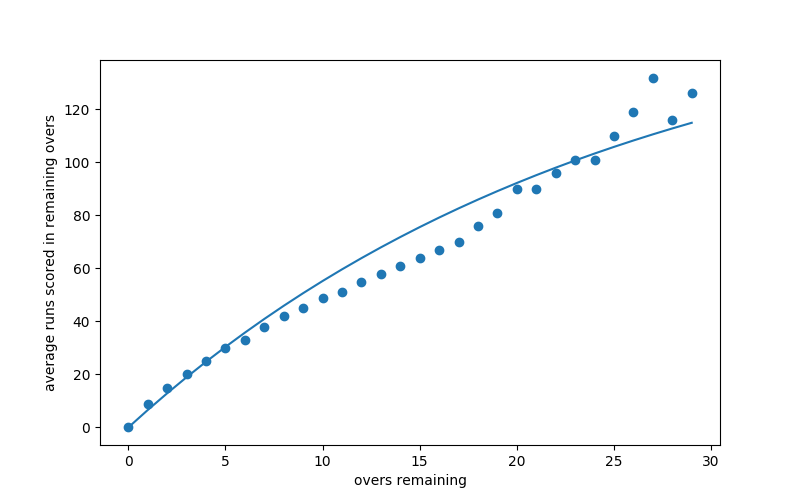
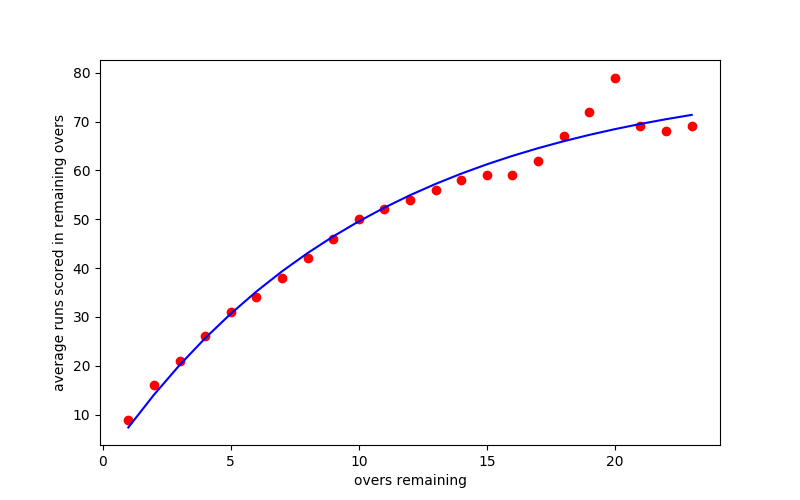
major changes: added corruption removal, best results yet

diff --git a/main.py b/main.py
@@ -7,15 +7,25 @@ from numpy import linspace as linspace
 from scipy.optimize import minimize
 from math import ceil
 
-# Read data and remove some of the corrupt entries
-h = pd.read_csv('./../data/04_cricket_1999to2011.csv')
-history = {}
-for key in h:
-	l = list(h[key])
-	del l[99253:99286]
-	del h[key]
-	history[key] = l
+# Read data 
+history = pd.read_csv('./../data/04_cricket_1999to2011.csv')
 
+# Ignore corrupt entries
+def find_corrupt_matches():
+	corrupt = []
+	for i, match in enumerate(history['Match']):
+		if i == 0:
+			continue
+		if history['Over'][i] == 1 and history['Innings'][i] == 2 and history['Wickets.in.Hand'][i-1] != 0\
+		and history['Over'][i-1] != 50: # Unfinished 1st innings
+			corrupt.append(match)
+		if history['Over'][i] == 1 and history['Runs.Remaining'][i-1] != 0:
+		# Unfinished 1st or 2nd innings
+			corrupt.append(match)
+	return corrupt
+
+corrupt = find_corrupt_matches()
+ 
 # Find number of overs played in an innings
 def set_overs_played():
 	op_, start, overs = [], 0, history['Over']
@@ -35,29 +45,36 @@ def set_overs_played():
 
 op = set_overs_played()
 
-# Create obsevation table for Z(u,w)
+# Create observation table for Z(u,w)
 def create_table():
 	table = []
 	d = {}
 	for over_rem in range(50):
 		for wckt_rem in range(11):
 			d[(over_rem, wckt_rem)] = []
-	for i, over in enumerate(history['Over']):
-		w = history['Wickets.in.Hand'][i]
-		u = op[i]-over
-		t = history['Runs.Remaining'][i]
-		if u == 0 or t == -1:
-			t = 0
-		d[(u, w)].append(t)
+	for i, match in enumerate(history['Match']):
+		if match not in corrupt:
+			w = history['Wickets.in.Hand'][i]
+			t = history['Runs.Remaining'][i]
+			over = history['Over'][i]
+			if history['Innings'][i] == 1:
+				u = 50 - over
+			else:
+				u = op[i] - over
+			if u == 0 or w == 0:
+				t = -1
+			d[(u, w)].append(t)
 	for over_rem in range(50):
 		row = []
 		for wckt_rem in range(11):
-			if d[(over_rem, wckt_rem)] != []:
-				row.append(ceil(avg(d[(over_rem, wckt_rem)])))
+			if len(d[(over_rem, wckt_rem)]) >= 30: # If at least 25 data points aren't found we ignore the
+				row.append(ceil(avg(d[(over_rem, wckt_rem)]))) # situation while optimizing
 			else:
 				row.append(-1)
 		table.append(row)
+		#print table[over_rem]
 	return table
+
 
 table = create_table()
 
@@ -83,16 +100,17 @@ def loss(Z):
 x0 = []
 bnds = []
 for i in range(10):
-	x0.append(i*25)
+	x0.append((i+1)*50)
 	bnds.append((1, None))
 x0.append(5)
 bnds.append((0,None))
 params = minimize(loss, x0, bounds=bnds).x
 print('############ Parameters ############\n')
 for i in range(10):
-	print('Z({}) = {} {}'.format(i+1, params[i], prod(50, params[i], params[10])))
+	print('Z({}) = {}'.format(i+1, params[i]))
 print('L = {}'.format(params[10]))
 
+# Plot fraction of resources remaining
 fig, ax = plt.subplots(figsize=(8,5))
 X = linspace(0, 50, 100)
 for i in range(10):
@@ -103,7 +121,7 @@ for i in range(10):
 plt.legend()
 plt.savefig('resource' + '.png')
 
-# Calculate error in Z(w) 
+# Calculate error in Z(u,w) when w is fixed and plot it
 def error(w,):
 	s, d = 0, 0
 	for over in range(1, 50):
@@ -111,16 +129,16 @@ def error(w,):
 		if t != -1:
 			s = s + (prod(over, params[w-1], params[10])-t)**2
 			d = d + t**2
-	fig, ax = plt.subplots(figsize=(8,5))
+	fig, ax = plt.subplots(figsize = (8,5))
 	X, Y = [], []
 	for i in range(50):
 		t = table[i][w]
 		if t != -1:
 			X.append(i)
 			Y.append(t)
-	ax.scatter(X,Y)
+	ax.scatter(X,Y, color = 'red')
 	Y = [prod(x, params[w-1], params[10]) for x in X]
-	ax.plot(X, Y)
+	ax.plot(X, Y, color = 'blue')
 	ax.set_xlabel('overs remaining')
 	ax.set_ylabel('average runs scored in remaining overs')
 	plt.savefig('wickets_in_hand__'+ str(w) + '.png')
@@ -138,5 +156,5 @@ def total_error():
 
 print('\n############ Errors ############\n')
 for w in range(1,11):
-	print('Relative error in Z({}) is {}%'.format(w, error(w)))
+	print('Relative error in Z(u,{}) is {}%'.format(w, error(w)))
 print('Relative error in Z(u,w) is {}%'.format(total_error()))
